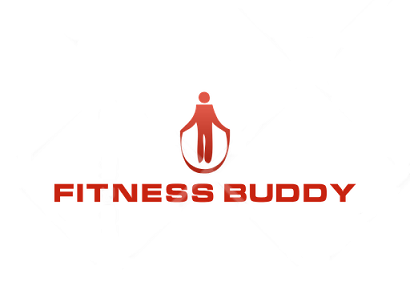
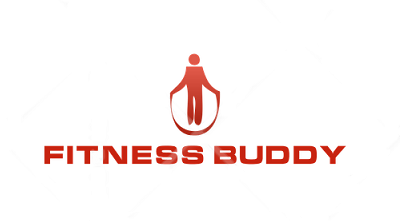
took out date search and change pop up color

Changed region(s): [[0.088, 0.2443, 0.8802, 0.7602]]

diff --git a/assets/javascript/app.js b/assets/javascript/app.js
@@ -11,22 +11,11 @@ firebase.initializeApp(config);
 
   var database = firebase.database();
   var likeRef = database.ref("/likes");
- //INITIAL VALUES
-  var aActivity = "";
-  var aFirstName = "";
-  var aLastName = "";
-  var aGender = ""
-  var aCity = "";
-  var aState = "";
-  var aPlace = "";
-  var aDate = "";
-  var aStartTime = "";
-  var aEmail = "";
-  var aComment = "";
-  var aAge ="";
   var showDetail;
+  var weather;
   var id;
   var likeCount = 0;
+//like button
 likeRef.on("value", function(snap){
 
   $("#likeCount").html(snap.val().like);
@@ -39,7 +28,6 @@ likeRef.on("value", function(snap){
 $("#likeClick").on("click", function(){
   console.log(likeCount);
   likeCount++;
-  console.log()
   likeRef.set({
     like: likeCount
   });
@@ -48,7 +36,7 @@ $("#likeClick").on("click", function(){
   $("#athlete-form").on("submit", function(e){
   	e.preventDefault();
 
-  	// $("#display >tbody").html("");
+
   	var activityInput = $(".act-input.selected").attr("data-act");
   	var firstNameInput = $("#name-input").val().trim().toLowerCase();
   	var lastNameInput = $("#lastName-input").val().trim().toLowerCase();
@@ -61,7 +49,7 @@ $("#likeClick").on("click", function(){
   	var emailInput = $("#email-input").val().trim().toLowerCase();
   	var commentInput = $("#comment-input").val().trim().toLowerCase();
     var ageInput = $(".age-input.selected").attr("data-age");
-console.log(activityInput);
+// console.log(activityInput);
 
   	var athleteInfo = {
 
@@ -86,35 +74,22 @@ console.log(activityInput);
      });
 
   database.ref().on("child_added", function(snap){
-  	aActivity = snap.val().activity.toUpperCase();
-  	aFirstName = snap.val().firstName.toUpperCase();
-  	aLastName = snap.val().lastName.toUpperCase();
-  	aGender = snap.val().gender.toUpperCase();
-  	aCity = snap.val().city.toUpperCase();
-  	aState = snap.val().state.toUpperCase();
-  	aPlace = snap.val().place.toUpperCase();
-  	aDate = snap.val().date.toUpperCase();
-  	aStartTime = snap.val().startTime.toUpperCase();
-  	aEmail = snap.val().email.toUpperCase();
-  	aComment = snap.val().comment;
 
-    // console.log(snap.key);
-
-  	$("#display >tbody").append( "<tr>"+
-  		"<td>"+ aActivity +"</td>"+
-  		"<td>"+ aCity +"</td>"+
-  		"<td>"+ aState +"</td>"+
-  		"<td>"+ aDate +"</td>"+
-  		"<td>"+ aStartTime +"</td>"+
-  		"<td>"+ aFirstName +"</td>"+
-  		"<td><i class='info circle icon detail' data-key=" + snap.key + "></i></td></tr>");
-
-
+    generalDisplay(snap);
     // Handle the errors
     }, function(errorObject) {
       console.log("Errors handled: " + errorObject.code);
    });
 
+//show all activity
+$("#showAllAct").on("click", function(e){
+  	$("#display >tbody").html("");
+  e.preventDefault();
+    database.ref().on("child_added", function(snap){
+      generalDisplay(snap);
+
+    });
+});
 
 //ACTIVITY BUTTONs
 $(".searchAct").on("click", function(event){
@@ -132,16 +107,16 @@ $(".searchAct").on("click", function(event){
 
 		});
 });
-//FILTER BY CITY AND DATE
+//FILTER BY CITY
 $("#searchBtn").on("click", function(event) {
 	event.preventDefault();
 	$("#display >tbody").html("");
 	var searchCity = $("#searchCity").val().toLowerCase();
-	var searchDate = $("#searchDate").val().toLowerCase();
+
 	$("form").form("clear");
 
 
-	database.ref().orderByChild("city" || "date").equalTo(searchCity || searchDate).on("child_added", function(snap){
+	database.ref().orderByChild("city").equalTo(searchCity).on("child_added", function(snap){
 		// console.log(snap.val());
 		generalDisplay(snap);
   });
@@ -153,7 +128,7 @@ $(document).on("mouseenter",".detail", getDetail);
 
 function getDetail(){
 
-   id = $(this).attr("data-key")
+   id = $(this).attr("data-key");
   //  console.log(id)
 
  database.ref().orderByKey().equalTo(id).on("child_added", function(snap){
@@ -161,7 +136,7 @@ function getDetail(){
 weatherAPI(snap);
 googleMap(snap);
 // showDetail(snap);
-   showDetail = "<p>" + "Details:" + "</p><p>" +
+   showDetail = "<div class='ui segment inverted grey'><p>" + "Details:" + "</p><p>" +
    "Name: " + snap.val().firstName.toUpperCase() + "</p><p>" +
    "Lastname: " + snap.val().lastName.toUpperCase() + "</p><p>" +
    "Gender: " + snap.val().gender.toUpperCase() + "</p><p>" +
@@ -171,7 +146,7 @@ googleMap(snap);
    "City: " + snap.val().city.toUpperCase() + "</p><p>" +
    "Email: " + snap.val().email.toUpperCase() + "</p><p>" +
    "Comment: " + snap.val().comment + "</p><p>" +
-   "Don't know how to get there:" + "<a href='testdirection.html' target= _blank>" + "Place" + "</a></p>"
+   "Don't know how to get there: " + "<a href='testdirection.html' target= _blank>" + "Location" + "</a></p></div>";
 
 
    $('.icon.detail')
@@ -186,7 +161,7 @@ googleMap(snap);
 
 //GENERAL DISPLAY FUNCTION
 function generalDisplay(snap) {
-	// $("#display >tbody").html("");
+
 		$("#display >tbody").append( "<tr>"+
   		"<td>"+ snap.val().activity.toUpperCase() +"</td>"+
   		"<td>"+ snap.val().city.toUpperCase() +"</td>"+
@@ -195,9 +170,8 @@ function generalDisplay(snap) {
   		"<td>"+ snap.val().startTime.toUpperCase() +"</td>"+
   		"<td>"+ snap.val().firstName.toUpperCase() +"</td>"+
   		"<td><i class='info circle icon detail' data-key=" + snap.key + "></i></td></tr>");
-	};
+	}
 
-  var weather;
   function weatherAPI(snap){
     var dCity = snap.val().city;
     var queryURL = "http://api.openweathermap.org/data/2.5/weather?q=" + dCity + "&units=imperial&appid=166a433c57516f51dfab1f7edaed8413";

diff --git a/index.html b/index.html
@@ -24,9 +24,7 @@
 <div class="ui container">
 
   <div id ="logo" class="ui raised segment">
-    <!-- <h1 class = "headerName">FITNESS BUDDY</h1>
-    <h3 class = "headerName">Please PICK your activities</h3> -->
-    <img src="assets/images/fitbud.png" alt="">
+      <img src="assets/images/fitbud.png" alt="">
   </div>
   <div class="five large ui buttons">
     <button data="gym" class="searchAct ui red inverted button">Gym</button>
@@ -37,30 +35,32 @@
   </div><!-- <div class="five large ui buttons"> -->
 <!-- search to show what other people plan, if no search then show everything -->
 <!-- raised, stacked, piled -->
-  <div class="ui blue inverted piled segment">
-    <div class="ui form">
-      <div class="fields">
-        <div class="six wide field">
-          <input id = "searchCity" type="text" placeholder="City">
-        </div>
 
-        <div class="six wide field">
-          <div class="ui calendar" id="calDate">
-            <div class="ui input left icon">
-              <i class="calendar icon"></i>
-              <input id="searchDate" type="text" placeholder="Date">
-            </div>
-          </div>
-        </div>
-        <button id = "searchBtn" type="submit" class="ui three wide reverted primary button field">Let's Go</button>
+  <div class="ui blue inverted piled segment">
+
+    <div class="ui form">
+      <div class="three fields">
+      <div class="six wide field">
+
+          <input id = "searchCity" type="text" placeholder="City">
+      </div>
+      <div class="field">
+          <button id = "searchBtn" type="submit" class="ui sixteen wide field reverted red button">Let's Go</button>
+
+      </div>
+      <div class="field">
+          <button id="showAllAct"type ="submit" class="ui yellow sixteen wide field reverted button">Show All Activities</button>
+      </div>
       </div><!-- fields -->
-    </div><!-- form -->
+   </div>  <!-- form -->
+
     <!-- show general from database in the table below -->
+
     <div style ="height: 500px;overflow:auto;">
     <table id = "display" class="ui selectable unstackable table">
       <thead>
         <tr class="center align">
-          <!-- if people come into the page and haven't select activities, may have to put activities column -->
+
           <th>Activities</th>
           <th>City</th>
           <th>State</th>
@@ -273,8 +273,8 @@
   </a>
 </div>
 <img src="assets/images/milo.jpg" data-title="Milo" data-content="Nice to meet you!" class="ui avatar image">
-<img src="assets/images/milo2.jpg" data-title="Baby" data-content="I love you" class="ui avatar image">
-<img src="assets/images/milo2.jpg" data-title="Baby" data-content="Hope to see you again!" class="ui avatar image">
+<img src="assets/images/kobe.jpg" data-title="Kobe" data-content="I love you" class="ui avatar image">
+<img src="assets/images/laddie.jpg" data-title="Laddie" data-content="So website! Much cool" class="ui avatar image">
 <script src="assets/javascript/style.js"></script>
 <script src="assets/javascript/app.js"></script>
 <!-- <script src="assets/javascript/test.js"></script> -->

diff --git a/testdirection.html b/testdirection.html
@@ -4,7 +4,7 @@
   <meta charset="UTF-8">
   <meta name="viewport" content="width=device-width, initial-scale=1.0">
   <meta http-equiv="X-UA-Compatible" content="ie=edge">
-  <title>Document</title>
+  <title>Map</title>
   <script
   src="https://code.jquery.com/jquery-3.1.1.min.js"
   integrity="sha256-hVVnYaiADRTO2PzUGmuLJr8BLUSjGIZsDYGmIJLv2b8="
@@ -26,6 +26,7 @@
 </head>
 <body>
   <input id = "origin" type="text" placeholder ="Your Location">
+  <span>Your Destination: <span id="destination"></span></span>
   <input type="submit" id = "add-origin">
   <div id="map" style="position: relative; overflow: hidden;">
       <div style="height: 100%; width: 100%; position: absolute; top: 0px; left: 0px; background-color: rgb(229, 227, 223);"></div>
@@ -36,6 +37,7 @@
   var destinationCity = localStorage.getItem("city");
   var yourDestination = destinationPlace + ", " + destinationCity;
   console.log(yourDestination)
+  $("#destination").html(yourDestination.toUpperCase());
   var directionsService;
   var directionsDisplay;
   $("#add-origin").on("click", function(e){

diff --git a/assets/css/style.css b/assets/css/style.css
@@ -2,7 +2,7 @@ body{
   /*background-color: #555555;*/
 }
 #logo {
-  /*height: 40%;*/
+  height: 20%;
   background-repeat: no-repeat;
   text-align: center;
   margin: 0 auto;
@@ -10,13 +10,13 @@ body{
 .avatar {
   float: right;
   margin: 1em 1em;
-  /*position: absolute;
-  bottom: : 4;
-  left: 4%;*/
-
 }
 #like{
   margin-left: 1em;
   float: right;
-  
+
+}
+a {
+  color: yellow;
+
 }
